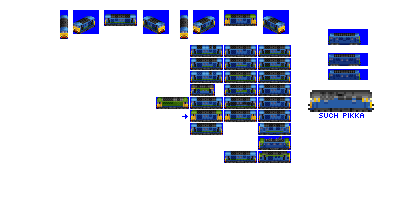
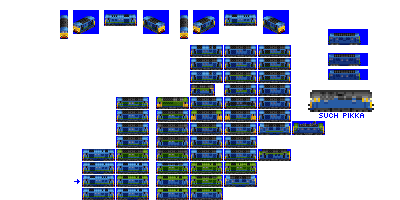
Change: add Vanguard, Onslaught, Centaur express engines, remove Thunderbird; the idea of converging branches on Revolution doesn't work because high-end HP-per-ton needs to increase substantially between generations due to increased speeds and train weights / capacities

Changed region(s): [[0.18, 0.48, 0.81, 1.0], [0.54, 0.06, 0.66, 0.15], [0.27, 0.06, 0.33, 0.15]]

diff --git a/src/rosters/pony.py b/src/rosters/pony.py
@@ -11,6 +11,7 @@ from vehicles import breeze
 from vehicles import brenner_cab
 from vehicles import brenner_middle
 from vehicles import carrack
+from vehicles import centaur
 from vehicles import cheddar_valley
 from vehicles import cheese_bug
 from vehicles import chimera
@@ -79,12 +80,12 @@ from vehicles import spinner
 from vehicles import stoat
 from vehicles import super_shoebox
 from vehicles import tencendur
-from vehicles import thunderbird
 from vehicles import tideway
 from vehicles import tin_rocket
 from vehicles import tyburn
 from vehicles import ultra_shoebox
 from vehicles import upcountry
+from vehicles import vanguard
 from vehicles import westbourne
 from vehicles import workish
 from vehicles import wyvern
@@ -139,11 +140,12 @@ def main(disabled=False):
                                upcountry,
                                jubilee,
                                wyvern,
-                               thunderbird,
+                               vanguard,
                                revolution,
                                pegasus,
                                dragon,
                                onslaught,
+                               centaur,
                                hurly_burly,
                                moor_gallop,
                                roarer,

diff --git a/src/vehicles/centaur.py b/src/vehicles/centaur.py
@@ -4,14 +4,14 @@ from train import EngineConsist, DieselEngineUnit
 def main(roster_id):
     consist = EngineConsist(roster_id=roster_id,
                             id='centaur',
-                            base_numeric_id=3150,
+                            base_numeric_id=4400,
                             name='Centaur',
-                            role='heavy_express_1',
-                            power=3700,
+                            role='heavy_express_3',
+                            power=3850,
                             random_reverse=True,
                             gen=6,
-                            intro_date_offset=5,  # introduce much earlier than gen epoch by design
-                            sprites_complete=True)
+                            intro_date_offset=-7, # let's be earlier on this to keep the mail up with the HSTs etc
+                            sprites_complete=False)
 
     consist.add_unit(type=DieselEngineUnit,
                      weight=95,

diff --git a/src/vehicles/onslaught.py b/src/vehicles/onslaught.py
@@ -10,7 +10,7 @@ def main(roster_id):
                             power=3300,
                             random_reverse=True,
                             gen=5,
-                            intro_date_offset=-7, # let's be really early with this one to give a mail engine matching Blaze HST intro date
+                            intro_date_offset=-8, # let's be really early with this one to give a mail engine matching Blaze HST intro date
                             sprites_complete=False)
 
     consist.add_unit(type=DieselEngineUnit,

diff --git a/src/vehicles/dragon.py b/src/vehicles/dragon.py
@@ -10,7 +10,6 @@ def main(roster_id):
                             power=2750,
                             random_reverse=True,
                             gen=4,
-                            replacement_consist_id='thunderbird', # this line ends with Dragon and is merged to heavy_express_1
                             intro_date_offset=1,  # introduce later than gen epoch by design
                             fixed_run_cost_points=280, # give a malus to this one (balancing eh?)
                             sprites_complete=True)

diff --git a/src/vehicles/vanguard.py b/src/vehicles/vanguard.py
@@ -3,9 +3,9 @@ from train import EngineConsist, DieselEngineUnit
 
 def main(roster_id):
     consist = EngineConsist(roster_id=roster_id,
-                            id='thunderbird',
+                            id='vanguard',
                             base_numeric_id=3090,
-                            name='Thunderbird',
+                            name='Vanguard',
                             role='heavy_express_1',
                             power=2550,
                             random_reverse=True,

diff --git a/src/vehicles/gronk.py b/src/vehicles/gronk.py
@@ -14,7 +14,7 @@ def main(roster_id):
                             random_reverse=True,
                             joker=True,
                             gen=4,
-                            intro_date_offset=-9, # introduce later than gen epoch by design
+                            intro_date_offset=-9, # introduce much earlier than gen epoch by design
                             sprites_complete=True)
 
     consist.add_unit(type=DieselEngineUnit,
